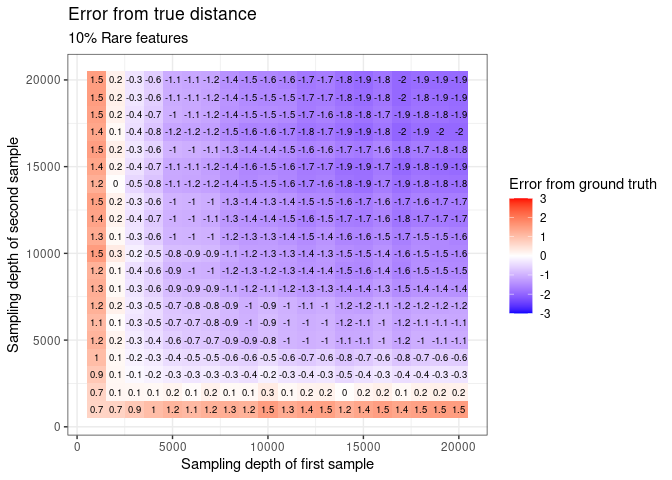
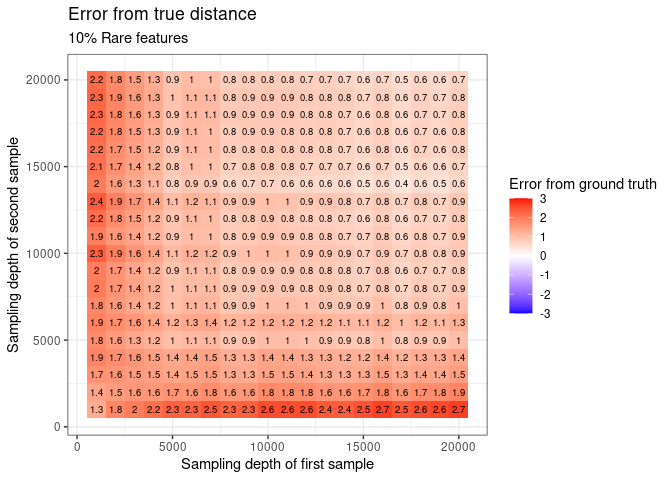
update

diff --git a/docs/bootstrapping_distance.md b/docs/bootstrapping_distance.md
@@ -188,34 +188,6 @@ plot_dist2 <- long_dist2 %>%
   ylab("Sampling depth of second sample")
 
 
-long_dist2 %>% 
-  mutate(mean2 = long_dist1$mean) %>% 
-  mutate(diff_mean = mean - mean2) %>% 
-  ggplot() +
-  aes(x = ID, y = name, fill = diff_mean, label = round(diff_mean, 1)) +
-  
-  geom_tile() +
-  geom_text(colour = "black", size = 2.5) +
-  scale_fill_gradient2(low = "blue", high = "red", mid = "white", midpoint = 0, limits = c(-1,1), "Delta from true mean") +
-  theme_bw() +
-  ggtitle("Offset is not strongly dependent composition", subtitle = "10% Rare features") +
-  xlab("Sampling depth of first sample") +
-  ylab("Sampling depth of second sample")
-```
-
-![](bootstrapping_distance_files/figure-gfm/prepare%20plots-2.png)<!-- -->
-
-``` r
-long_dist2 %>% 
-  mutate(mean2 = long_dist1$mean) %>% 
-  mutate(diff_mean = mean - mean2) %>%
-  .$diff_mean %>% 
-  hist(., breaks = 30)
-```
-
-![](bootstrapping_distance_files/figure-gfm/prepare%20plots-3.png)<!-- -->
-
-``` r
 data.frame(as.matrix(est.dist)) %>% 
   rownames_to_column("ID") %>% 
   pivot_longer(!ID) %>% 
@@ -260,7 +232,7 @@ data.frame(as.matrix(est.dist)) %>%
     ## `summarise()` has grouped output by 'ID'. You can override using the `.groups`
     ## argument.
 
-![](bootstrapping_distance_files/figure-gfm/prepare%20plots-4.png)<!-- -->
+![](bootstrapping_distance_files/figure-gfm/prepare%20plots-2.png)<!-- -->
 
 ``` r
 data.frame(as.matrix(est.dist)) %>% 
@@ -290,7 +262,7 @@ data.frame(as.matrix(est.dist)) %>%
          mean_s2 = long_dist2$mean) %>% 
   mutate(mean_s = (mean_s1 + mean_s2)/2) %>% 
   #mutate(mean_offset = sqrt((mean *  mean_s)) ) %>% 
-  mutate(mean_from_20 = mean_s - sqrt(20)) %>% 
+  mutate(mean_from_20 = mean - sqrt(20)) %>% 
   
   ggplot() +
   aes(x = ID, y = name, fill = mean_from_20, label = round(mean_from_20, 1)) +
@@ -307,7 +279,42 @@ data.frame(as.matrix(est.dist)) %>%
     ## `summarise()` has grouped output by 'ID'. You can override using the `.groups`
     ## argument.
 
-![](bootstrapping_distance_files/figure-gfm/prepare%20plots-5.png)<!-- -->
+![](bootstrapping_distance_files/figure-gfm/prepare%20plots-3.png)<!-- -->
+
+``` r
+#Let's see if we can find out where this bias comes from.
+plot_dist1 + plot_dist2 + plot_layout(guides = 'collect')
+```
+
+![](bootstrapping_distance_files/figure-gfm/plot-1.png)<!-- -->
+
+``` r
+long_dist2 %>% 
+  mutate(mean2 = long_dist1$mean) %>% 
+  mutate(diff_mean = mean - mean2) %>% 
+  ggplot() +
+  aes(x = ID, y = name, fill = diff_mean, label = round(diff_mean, 1)) +
+  
+  geom_tile() +
+  geom_text(colour = "black", size = 2.5) +
+  scale_fill_gradient2(low = "blue", high = "red", mid = "white", midpoint = 0, limits = c(-1,1), "Delta from true mean") +
+  theme_bw() +
+  ggtitle("Offset is not strongly dependent composition", subtitle = "10% Rare features") +
+  xlab("Sampling depth of first sample") +
+  ylab("Sampling depth of second sample")
+```
+
+![](bootstrapping_distance_files/figure-gfm/plot-2.png)<!-- -->
+
+``` r
+long_dist2 %>% 
+  mutate(mean2 = long_dist1$mean) %>% 
+  mutate(diff_mean = mean - mean2) %>%
+  .$diff_mean %>% 
+  hist(., breaks = 30, main = "Difference between offsets of Sample 1 & 2" )
+```
+
+![](bootstrapping_distance_files/figure-gfm/plot-3.png)<!-- -->
 
 ``` r
 data.frame(as.matrix(est.dist)) %>% 
@@ -354,7 +361,7 @@ data.frame(as.matrix(est.dist)) %>%
     ## `summarise()` has grouped output by 'ID'. You can override using the `.groups`
     ## argument.
 
-![](bootstrapping_distance_files/figure-gfm/prepare%20plots-6.png)<!-- -->
+![](bootstrapping_distance_files/figure-gfm/plot-4.png)<!-- -->
 
 ``` r
 data.frame(as.matrix(est.dist)) %>% 
@@ -401,10 +408,4 @@ data.frame(as.matrix(est.dist)) %>%
     ## `summarise()` has grouped output by 'ID'. You can override using the `.groups`
     ## argument.
 
-![](bootstrapping_distance_files/figure-gfm/prepare%20plots-7.png)<!-- -->
-
-``` r
-plot_dist1 + plot_dist2 + plot_layout(guides = 'collect')
-```
-
-![](bootstrapping_distance_files/figure-gfm/plot-1.png)<!-- -->
+![](bootstrapping_distance_files/figure-gfm/plot-5.png)<!-- -->
